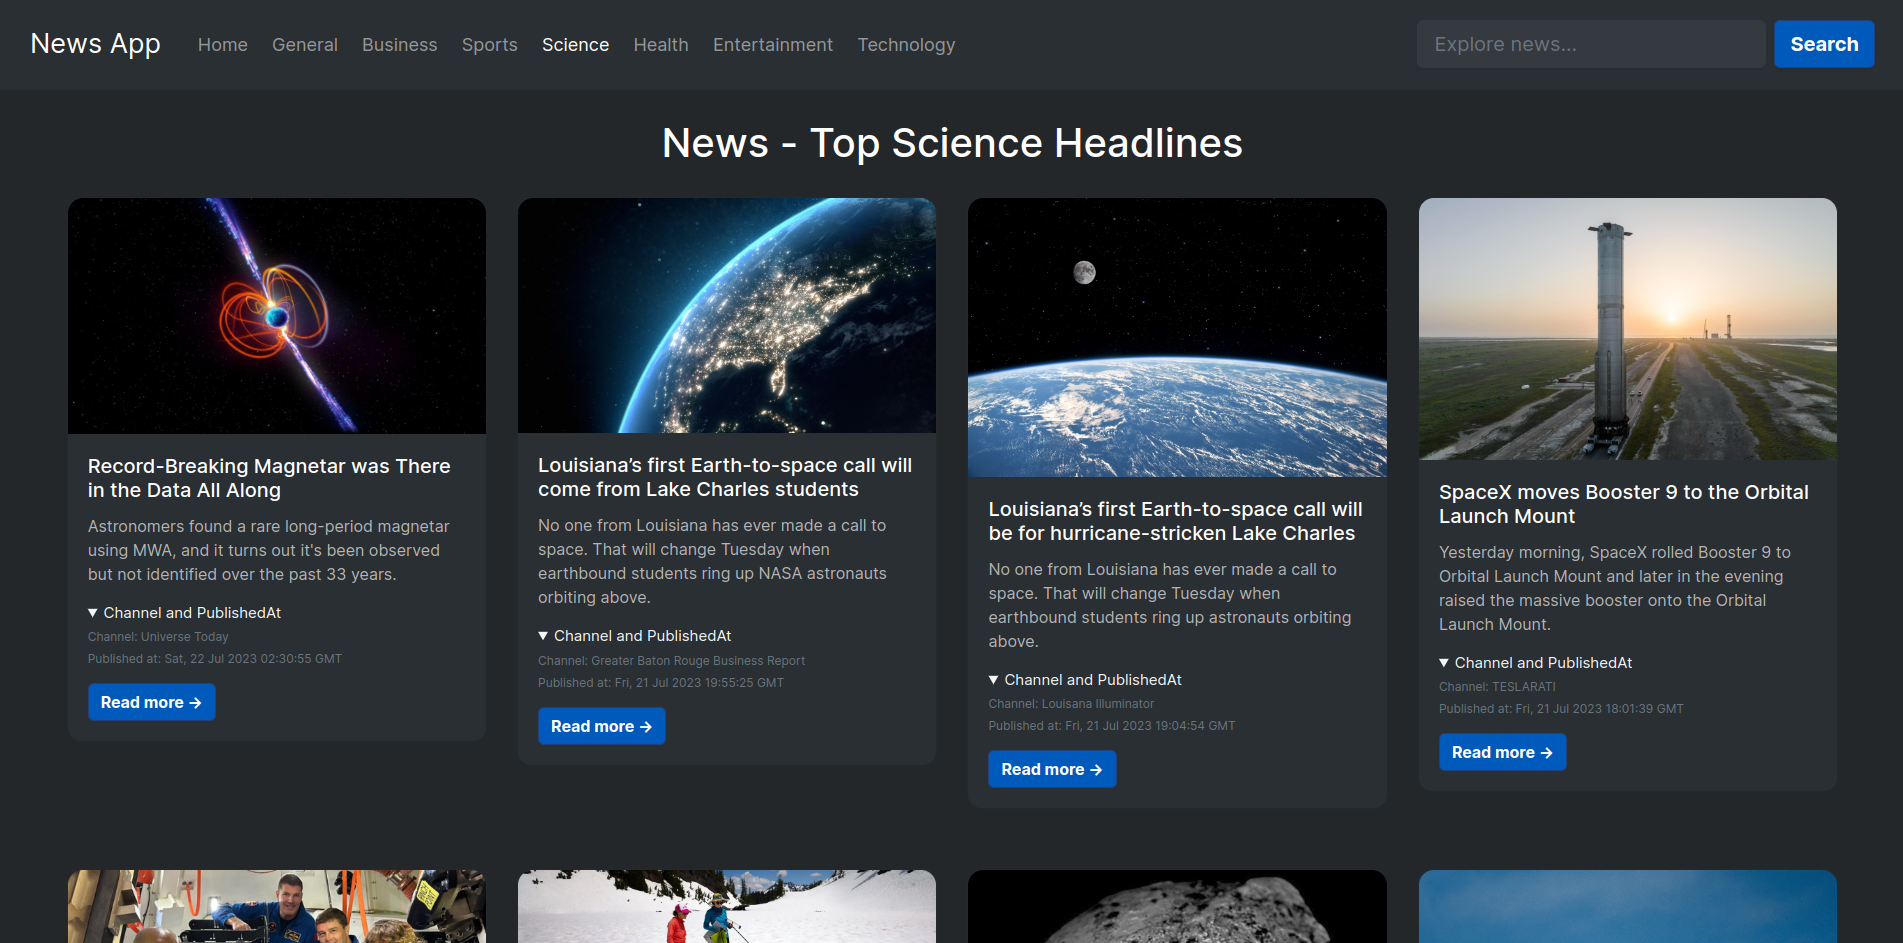
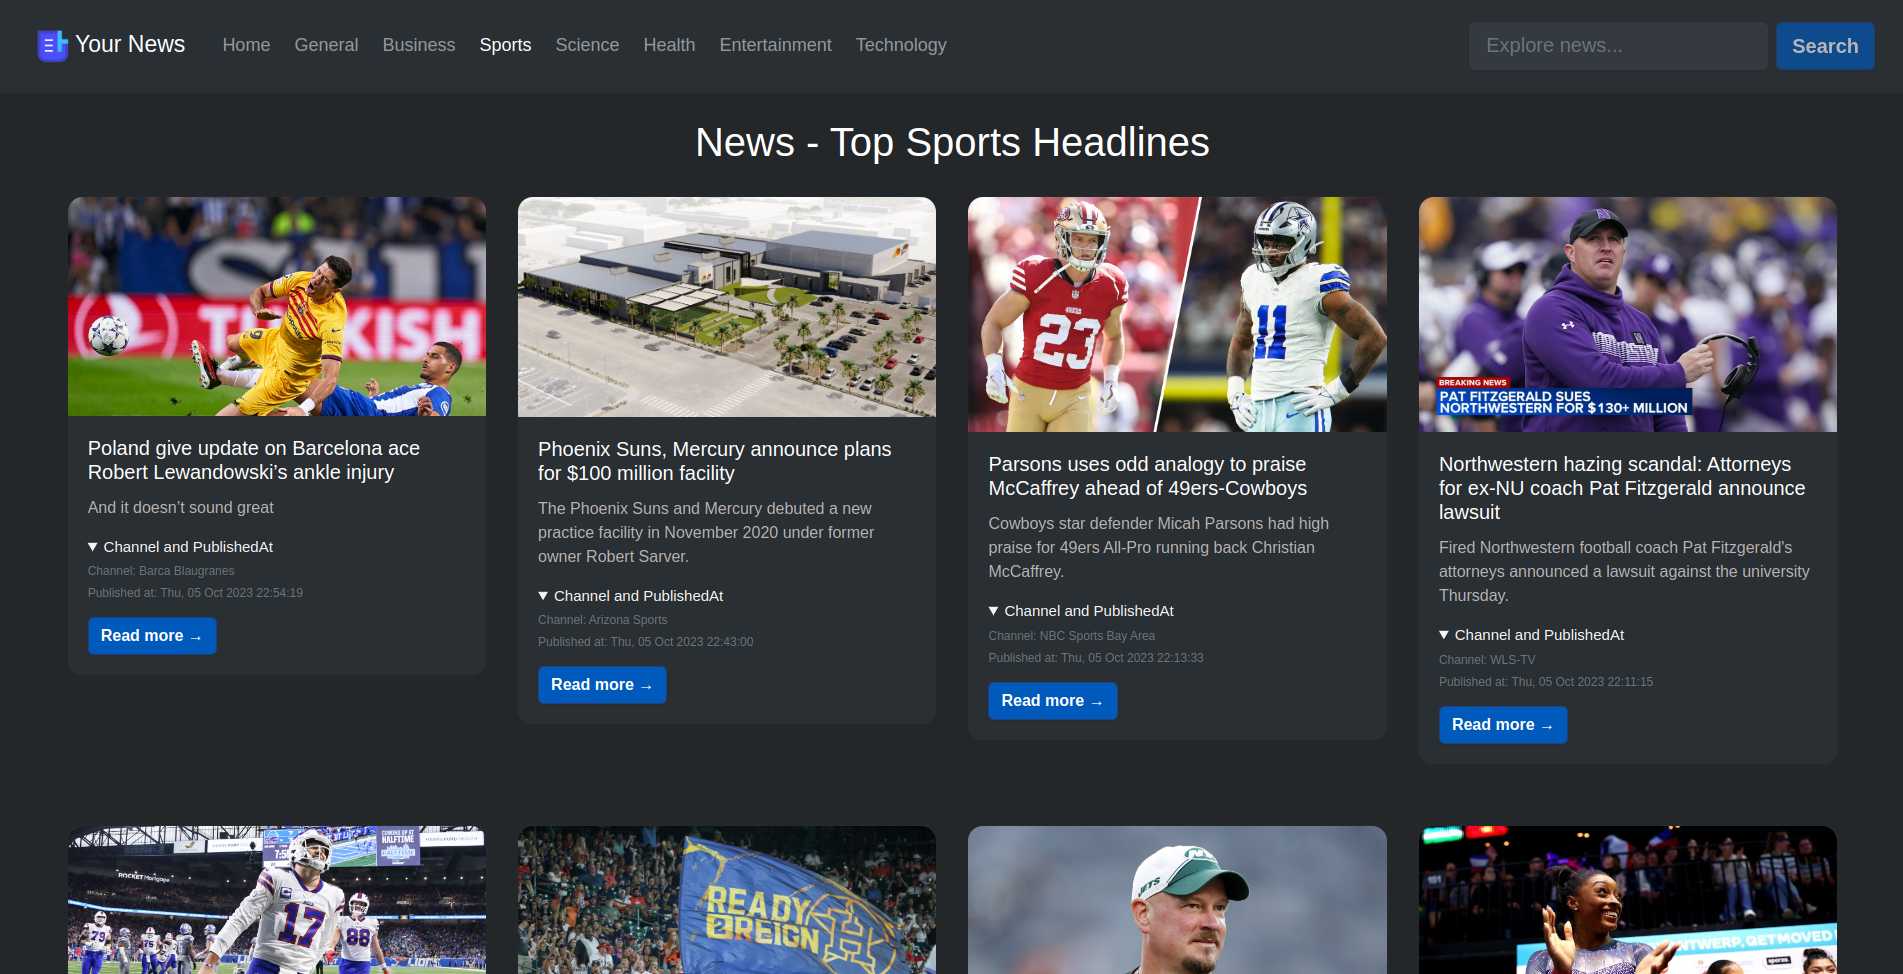
React News App

diff --git a/src/components/NavBar/NavBar.js b/src/components/NavBar/NavBar.js
@@ -1,12 +1,21 @@
 import React, { useState, useRef } from "react";
 import { v4 as uuidv4 } from "uuid";
-import { navBar, navBrand, nav, searchForm, btnColor, formInput } from "./index";
+import {
+  navBar,
+  navBrand,
+  nav,
+  searchForm,
+  btnColor,
+  formInput,
+  logo
+} from "./index";
 import { Navbar, Nav, Form, FormControl, Button } from "react-bootstrap";
 import { navbarBrand, navs } from "../../config/config";
 import { LinkContainer } from "react-router-bootstrap";
 import { useNavigate } from "react-router-dom";
 import { useDispatch } from "react-redux";
 import { searchArticle } from "../../store/action";
+import logoImage from "../Images/logoImage.png";
 
 function NavBar() {
   const navigate = useNavigate();
@@ -45,6 +54,7 @@ function NavBar() {
         expanded={!isCollapsed}
       >
         <Navbar.Brand style={navBrand} href="/">
+          <img src={logoImage} alt="Logo" style={logo}/>
           {navbarBrand}
         </Navbar.Brand>
         <Navbar.Toggle

diff --git a/src/components/NavBar/index.js b/src/components/NavBar/index.js
@@ -5,7 +5,7 @@ export const navBar = {
 };
 
 export const navBrand = {
-  fontSize: "27px",
+  fontSize: "23px",
   marginLeft: "10px",
 };
 
@@ -22,6 +22,10 @@ export const formInput = {
   borderRadius: "6px",
   marginLeft: "13px",
 };
+
+export const logo = {
+  width: "45px"
+}
 
 export const btnColor = {
   backgroundColor: "#005abb",
